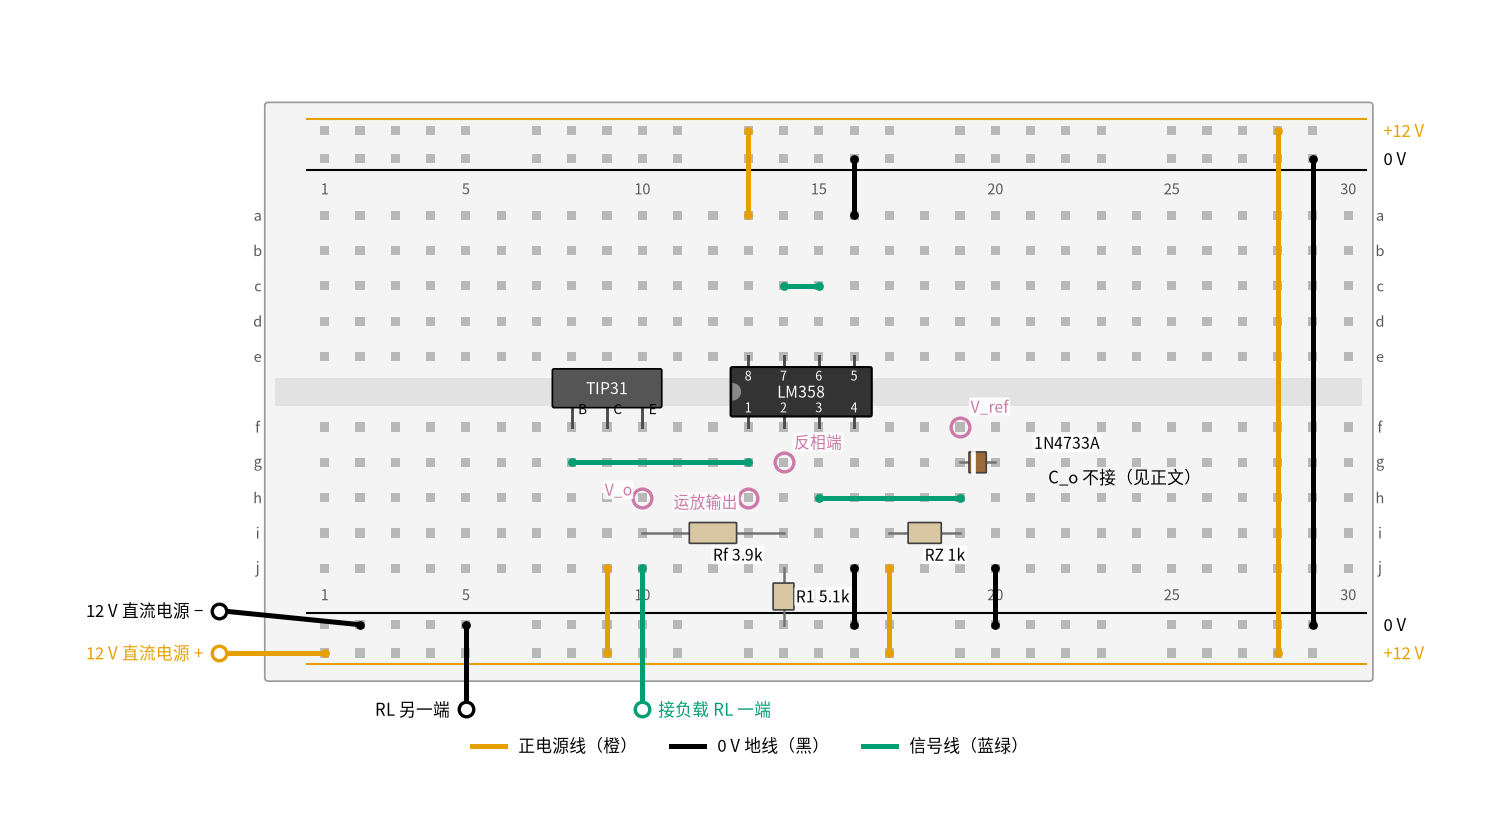
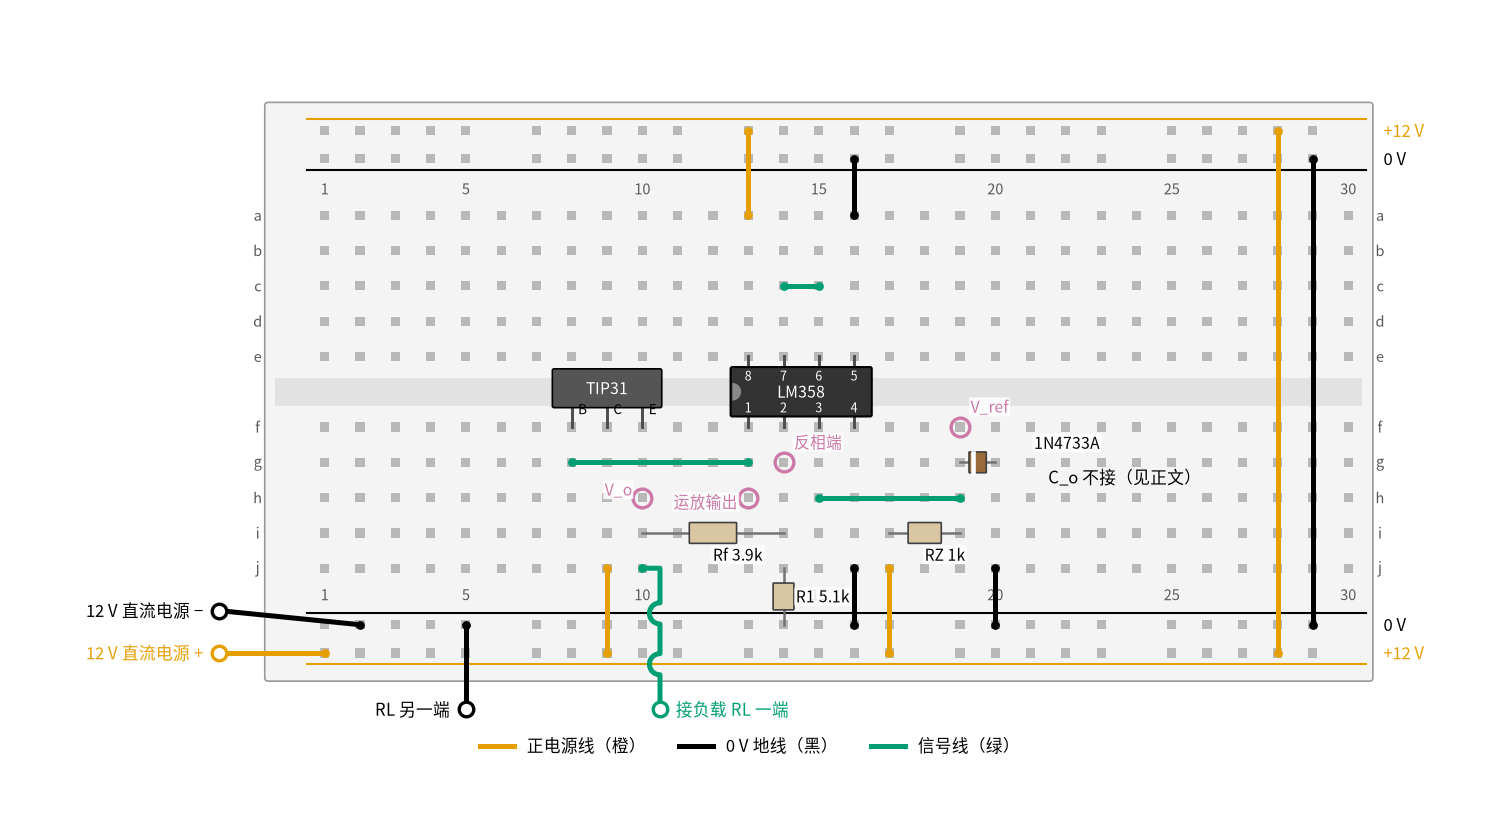
fix: 08–10 面包板图（跨线弯、图例、RL 标注）

Changed region(s): [[0.4293, 0.681, 0.552, 0.8976], [0.5827, 0.8667, 0.6747, 0.8976], [0.3373, 0.8667, 0.4293, 0.8976]]

diff --git a/code/figs/09_figs.py b/code/figs/09_figs.py
@@ -169,7 +169,7 @@ from figstyle import C
 # page4 动手实验篇：面包板俯视图（本节点自带一份小工具，只在本文件内使用）
 # 面包板：列号 1..ncol；上半区 a–e 行、下半区 f–j 行，同一列的 a–e 五个孔连通，f–j 五个孔连通；
 # 上下各两条电源轨（tp/tn 在上，bp/bn 在下），每条轨整条连通（有的面包板轨道在中间断开，正文会提醒）。
-# 导线颜色：正电源 = 橙色，0 V（地）= 黑色，负电源 = 蓝色，信号 = 蓝绿色。
+# 导线颜色：正电源 = 橙色，0 V（地）= 黑色，负电源 = 蓝色，信号 = 绿色。
 # 每条导线、每个元件引脚都登记到「网络」里（并查集），最后用 assert 检查想要的连接都接上了、不该通的没通。
 # ======================================================================
 import matplotlib.patches as mpatches
@@ -257,7 +257,8 @@ class Breadboard:
         return len({self.net(h) for h in hs}) == 1
 
     # ---- 画导线、元件、外部接线端 ----
-    def wire(self, h1, h2, kind="sig", bend=0.0):
+    def wire(self, h1, h2, kind="sig", bend=0.0, via=(), hops=(), hop_r=0.3):
+        """via：中间拐点（走在两列孔之间，避免压孔）；hops：竖直线段跨过电源轨线的 y 值，画成半圆「跨线弯」，表示从上面跨过、不接轨。"""
         self._use(h1, f"导线{h1}-{h2}")
         self._use(h2, f"导线{h1}-{h2}")
         self._union(self.strip(h1), self.strip(h2))
@@ -268,7 +269,15 @@ class Breadboard:
             xs = (1 - t) ** 2 * x1 + 2 * (1 - t) * t * xm + t ** 2 * x2
             ys = (1 - t) ** 2 * y1 + 2 * (1 - t) * t * ym + t ** 2 * y2
         else:
-            xs, ys = [x1, x2], [y1, y2]
+            pts = [(x1, y1)] + list(via) + [(x2, y2)]
+            xs, ys = [pts[0][0]], [pts[0][1]]
+            for (xa, ya), (xb, yb) in zip(pts[:-1], pts[1:]):
+                if xa == xb:                                   # 竖直段：在跨轨处插半圆
+                    sgn = 1 if yb > ya else -1
+                    for yh in sorted([h for h in hops if min(ya, yb) + hop_r < h < max(ya, yb) - hop_r], key=lambda h: sgn * h):
+                        th = np.linspace(-np.pi / 2, np.pi / 2, 15)
+                        xs += list(xa - hop_r * np.cos(th)); ys += list(yh + sgn * hop_r * np.sin(th))
+                xs.append(xb); ys.append(yb)
         self.ax.plot(xs, ys, color=BB_WIRE[kind], lw=2.4, solid_capstyle="round", zorder=3)
         for x, y in ((x1, y1), (x2, y2)):
             self.ax.plot(x, y, "o", ms=3.2, color=BB_WIRE[kind], zorder=4)
@@ -364,7 +373,7 @@ class Breadboard:
 
     def legend(self, kinds=("pos", "gnd", "neg", "sig")):
         from matplotlib.lines import Line2D
-        names = dict(pos="正电源线（橙）", gnd="0 V 地线（黑）", neg="负电源线（蓝）", sig="信号线（蓝绿）")
+        names = dict(pos="正电源线（橙）", gnd="0 V 地线（黑）", neg="负电源线（蓝）", sig="信号线（绿）")
         hs = [Line2D([], [], color=BB_WIRE[k], lw=2.4, label=names[k]) for k in kinds]
         self.ax.legend(handles=hs, loc="upper center", bbox_to_anchor=(0.5, 0.035), ncol=len(hs), fontsize=8,
                        frameon=False)
@@ -383,7 +392,10 @@ def bb09():
     bb.wire("a4", "tp4", "pos")                         # IN+ → +12 V（测输入电流时把这根线换成电流表）
     bb.wire("j4", "bp4", "gnd")                         # IN− → 0 V
     bb.wire("j20", "bp20", "gnd")                       # OUT− → 0 V
-    bb.wire("a20", bb.ext((20.0, 12.9), "接负载 RL 一端", "sig", dx=0.45, ha="left"), "sig")
+    # a20 引出线：先横移半格走到第 20、21 列孔之间，再竖直向上，在两条上方电源轨线处画「跨线弯」，表示从轨上方跨过、不接轨
+    bb.ax.set_ylim(-6.0, 13.5)                          # 留出板外接线端（y = 12.9）的位置，否则端点圆圈被裁掉
+    bb.wire("a20", bb.ext((20.5, 12.9), "接负载 RL 一端", "sig", dx=0.45, ha="left"), "sig",
+            via=[(20.5, 9.0)], hops=[BB_RAIL_Y["tn"] - 0.32, BB_RAIL_Y["tp"] + 0.32])
     bb.wire(bb.ext((16.0, -5.0), "RL 另一端", "gnd", dx=-0.45, ha="right"), "bp16", "gnd")
     assert bb.connected("M1.IN+", "tp1") and bb.connected("M1.IN−", "tn1") and bb.connected("M1.OUT−", "tn1")
     assert not bb.connected("M1.IN+", "M1.OUT+") and not bb.connected("tp1", "tn1")

diff --git a/code/figs/08_figs.py b/code/figs/08_figs.py
@@ -127,7 +127,7 @@ from figstyle import C
 # page4 动手实验篇：面包板俯视图（本节点自带一份小工具，只在本文件内使用）
 # 面包板：列号 1..ncol；上半区 a–e 行、下半区 f–j 行，同一列的 a–e 五个孔连通，f–j 五个孔连通；
 # 上下各两条电源轨（tp/tn 在上，bp/bn 在下），每条轨整条连通（有的面包板轨道在中间断开，正文会提醒）。
-# 导线颜色：正电源 = 橙色，0 V（地）= 黑色，负电源 = 蓝色，信号 = 蓝绿色。
+# 导线颜色：正电源 = 橙色，0 V（地）= 黑色，负电源 = 蓝色，信号 = 绿色。
 # 每条导线、每个元件引脚都登记到「网络」里（并查集），最后用 assert 检查想要的连接都接上了、不该通的没通。
 # ======================================================================
 import matplotlib.patches as mpatches
@@ -215,7 +215,8 @@ class Breadboard:
         return len({self.net(h) for h in hs}) == 1
 
     # ---- 画导线、元件、外部接线端 ----
-    def wire(self, h1, h2, kind="sig", bend=0.0):
+    def wire(self, h1, h2, kind="sig", bend=0.0, via=(), hops=(), hop_r=0.3):
+        """via：中间拐点（走在两列孔之间，避免压孔）；hops：竖直线段跨过电源轨线的 y 值，画成半圆「跨线弯」，表示从上面跨过、不接轨。"""
         self._use(h1, f"导线{h1}-{h2}")
         self._use(h2, f"导线{h1}-{h2}")
         self._union(self.strip(h1), self.strip(h2))
@@ -226,7 +227,15 @@ class Breadboard:
             xs = (1 - t) ** 2 * x1 + 2 * (1 - t) * t * xm + t ** 2 * x2
             ys = (1 - t) ** 2 * y1 + 2 * (1 - t) * t * ym + t ** 2 * y2
         else:
-            xs, ys = [x1, x2], [y1, y2]
+            pts = [(x1, y1)] + list(via) + [(x2, y2)]
+            xs, ys = [pts[0][0]], [pts[0][1]]
+            for (xa, ya), (xb, yb) in zip(pts[:-1], pts[1:]):
+                if xa == xb:                                   # 竖直段：在跨轨处插半圆
+                    sgn = 1 if yb > ya else -1
+                    for yh in sorted([h for h in hops if min(ya, yb) + hop_r < h < max(ya, yb) - hop_r], key=lambda h: sgn * h):
+                        th = np.linspace(-np.pi / 2, np.pi / 2, 15)
+                        xs += list(xa - hop_r * np.cos(th)); ys += list(yh + sgn * hop_r * np.sin(th))
+                xs.append(xb); ys.append(yb)
         self.ax.plot(xs, ys, color=BB_WIRE[kind], lw=2.4, solid_capstyle="round", zorder=3)
         for x, y in ((x1, y1), (x2, y2)):
             self.ax.plot(x, y, "o", ms=3.2, color=BB_WIRE[kind], zorder=4)
@@ -322,7 +331,7 @@ class Breadboard:
 
     def legend(self, kinds=("pos", "gnd", "neg", "sig")):
         from matplotlib.lines import Line2D
-        names = dict(pos="正电源线（橙）", gnd="0 V 地线（黑）", neg="负电源线（蓝）", sig="信号线（蓝绿）")
+        names = dict(pos="正电源线（橙）", gnd="0 V 地线（黑）", neg="负电源线（蓝）", sig="信号线（绿）")
         hs = [Line2D([], [], color=BB_WIRE[k], lw=2.4, label=names[k]) for k in kinds]
         self.ax.legend(handles=hs, loc="upper center", bbox_to_anchor=(0.5, 0.035), ncol=len(hs), fontsize=8,
                        frameon=False)
@@ -355,7 +364,9 @@ def bb08():
     bb.wire("j20", "bp20", "gnd")
     bb.wire("h15", "h19", "sig")
     # 负载：功率电阻放在板外
-    bb.wire("j10", bb.ext((10.0, -5.0), "接负载 RL 一端", "sig", dx=0.45, ha="left"), "sig")
+    # j10 引出线：先横移半格走到第 10、11 列孔之间，再竖直向下，在两条下方电源轨线处画「跨线弯」，表示从轨上方跨过、不接轨
+    bb.wire("j10", bb.ext((10.5, -5.0), "接负载 RL 一端", "sig", dx=0.45, ha="left"), "sig",
+            via=[(10.5, -1.0)], hops=[BB_RAIL_Y["bp"] + 0.32, BB_RAIL_Y["bn"] - 0.32])
     bb.wire(bb.ext((5.0, -5.0), "RL 另一端", "gnd", dx=-0.45, ha="right"), "bp5", "gnd")
     # 连接检查
     assert bb.connected("tp1", "bn1") and bb.connected("tn1", "bp1") and not bb.connected("tp1", "tn1")

diff --git a/code/figs/10_figs.py b/code/figs/10_figs.py
@@ -295,6 +295,11 @@ def bb10():
     assert bb.connected("DZ.1", "tn1") and bb.connected("RL.2", "tn1") and bb.connected("R.1", "tp1")
     assert not bb.connected("tp1", "tn1") and not bb.connected("R.1", "R.2")
     bb.probe("b3", "V_in", dx=-0.35, dy=0.3, ha="right")
+    # page4 接线第 6 步「先不插 RL」：图画的是插好 RL 的完整状态，这里给 RL 加一个提醒
+    bb.ax.annotate("接线第 6 步先不插 RL 和 a13 黑线（空载）\n测量表第 5 步（RL = 1 kΩ）再插",
+                   xy=(9.55, 5.95), xytext=(8.5, 2.0), ha="center", va="center", fontsize=8, color="0.15",
+                   bbox=dict(boxstyle="round,pad=0.3", fc="#fff6d5", ec="0.45", lw=0.8),
+                   arrowprops=dict(arrowstyle="->", color="0.35", lw=1.0, shrinkA=2, shrinkB=6), zorder=6)
     bb.probe("e7", "V_o", dx=0.35, dy=-0.3)
     bb.note(9.0, -4.75, "测 I_Z：断电，拔掉 a10 的黑线，电流表红笔插 c10、黑笔接 0 V 轨", va="center", ha="center")
     bb.note(9.0, -5.35, "测 I_L：同样拔掉 a13 的黑线，电流表红笔插 c13、黑笔接 0 V 轨", va="center", ha="center")
